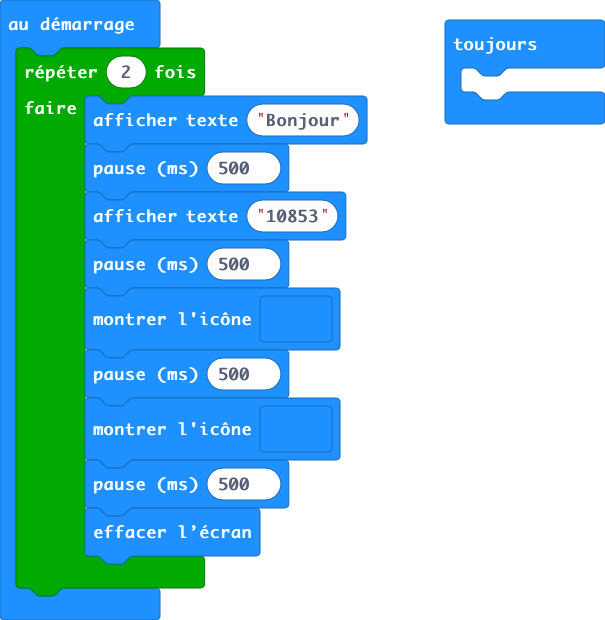
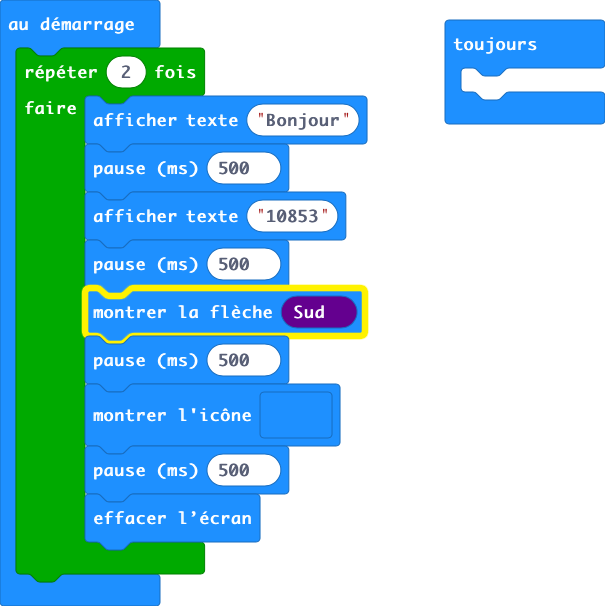
Mise à jour main.blocks, main.ts

diff --git a/main.ts b/main.ts
@@ -3,7 +3,7 @@ for (let index = 0; index < 2; index++) {
     basic.pause(500)
     basic.showString("10853")
     basic.pause(500)
-    basic.showIcon(IconNames.Sword)
+    basic.showArrow(ArrowNames.South)
     basic.pause(500)
     basic.showIcon(IconNames.Happy)
     basic.pause(500)
